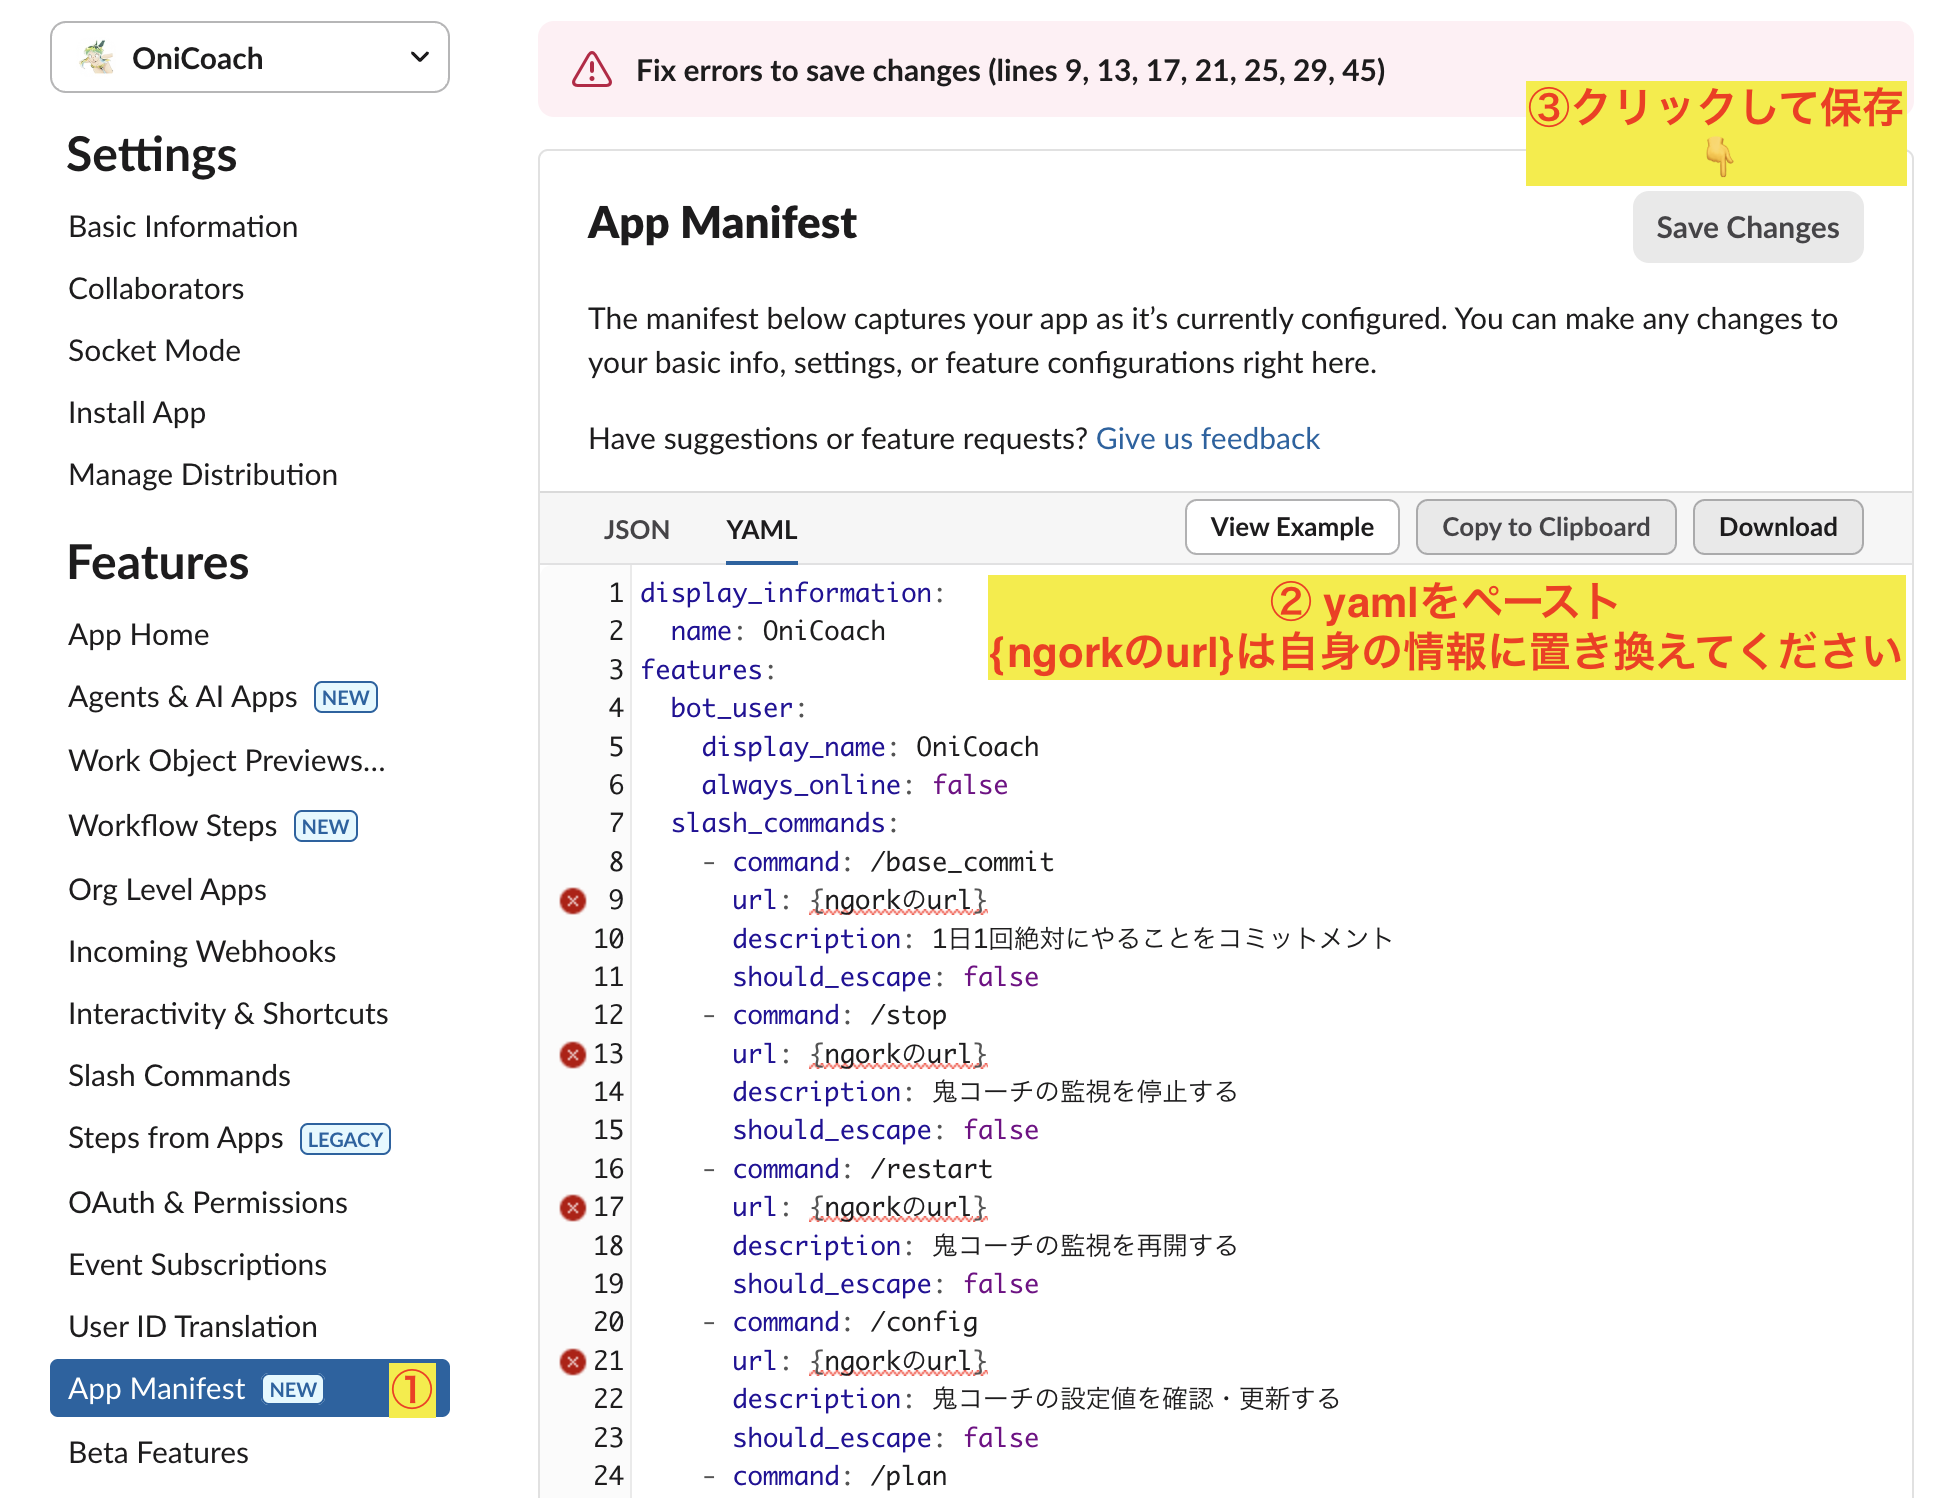
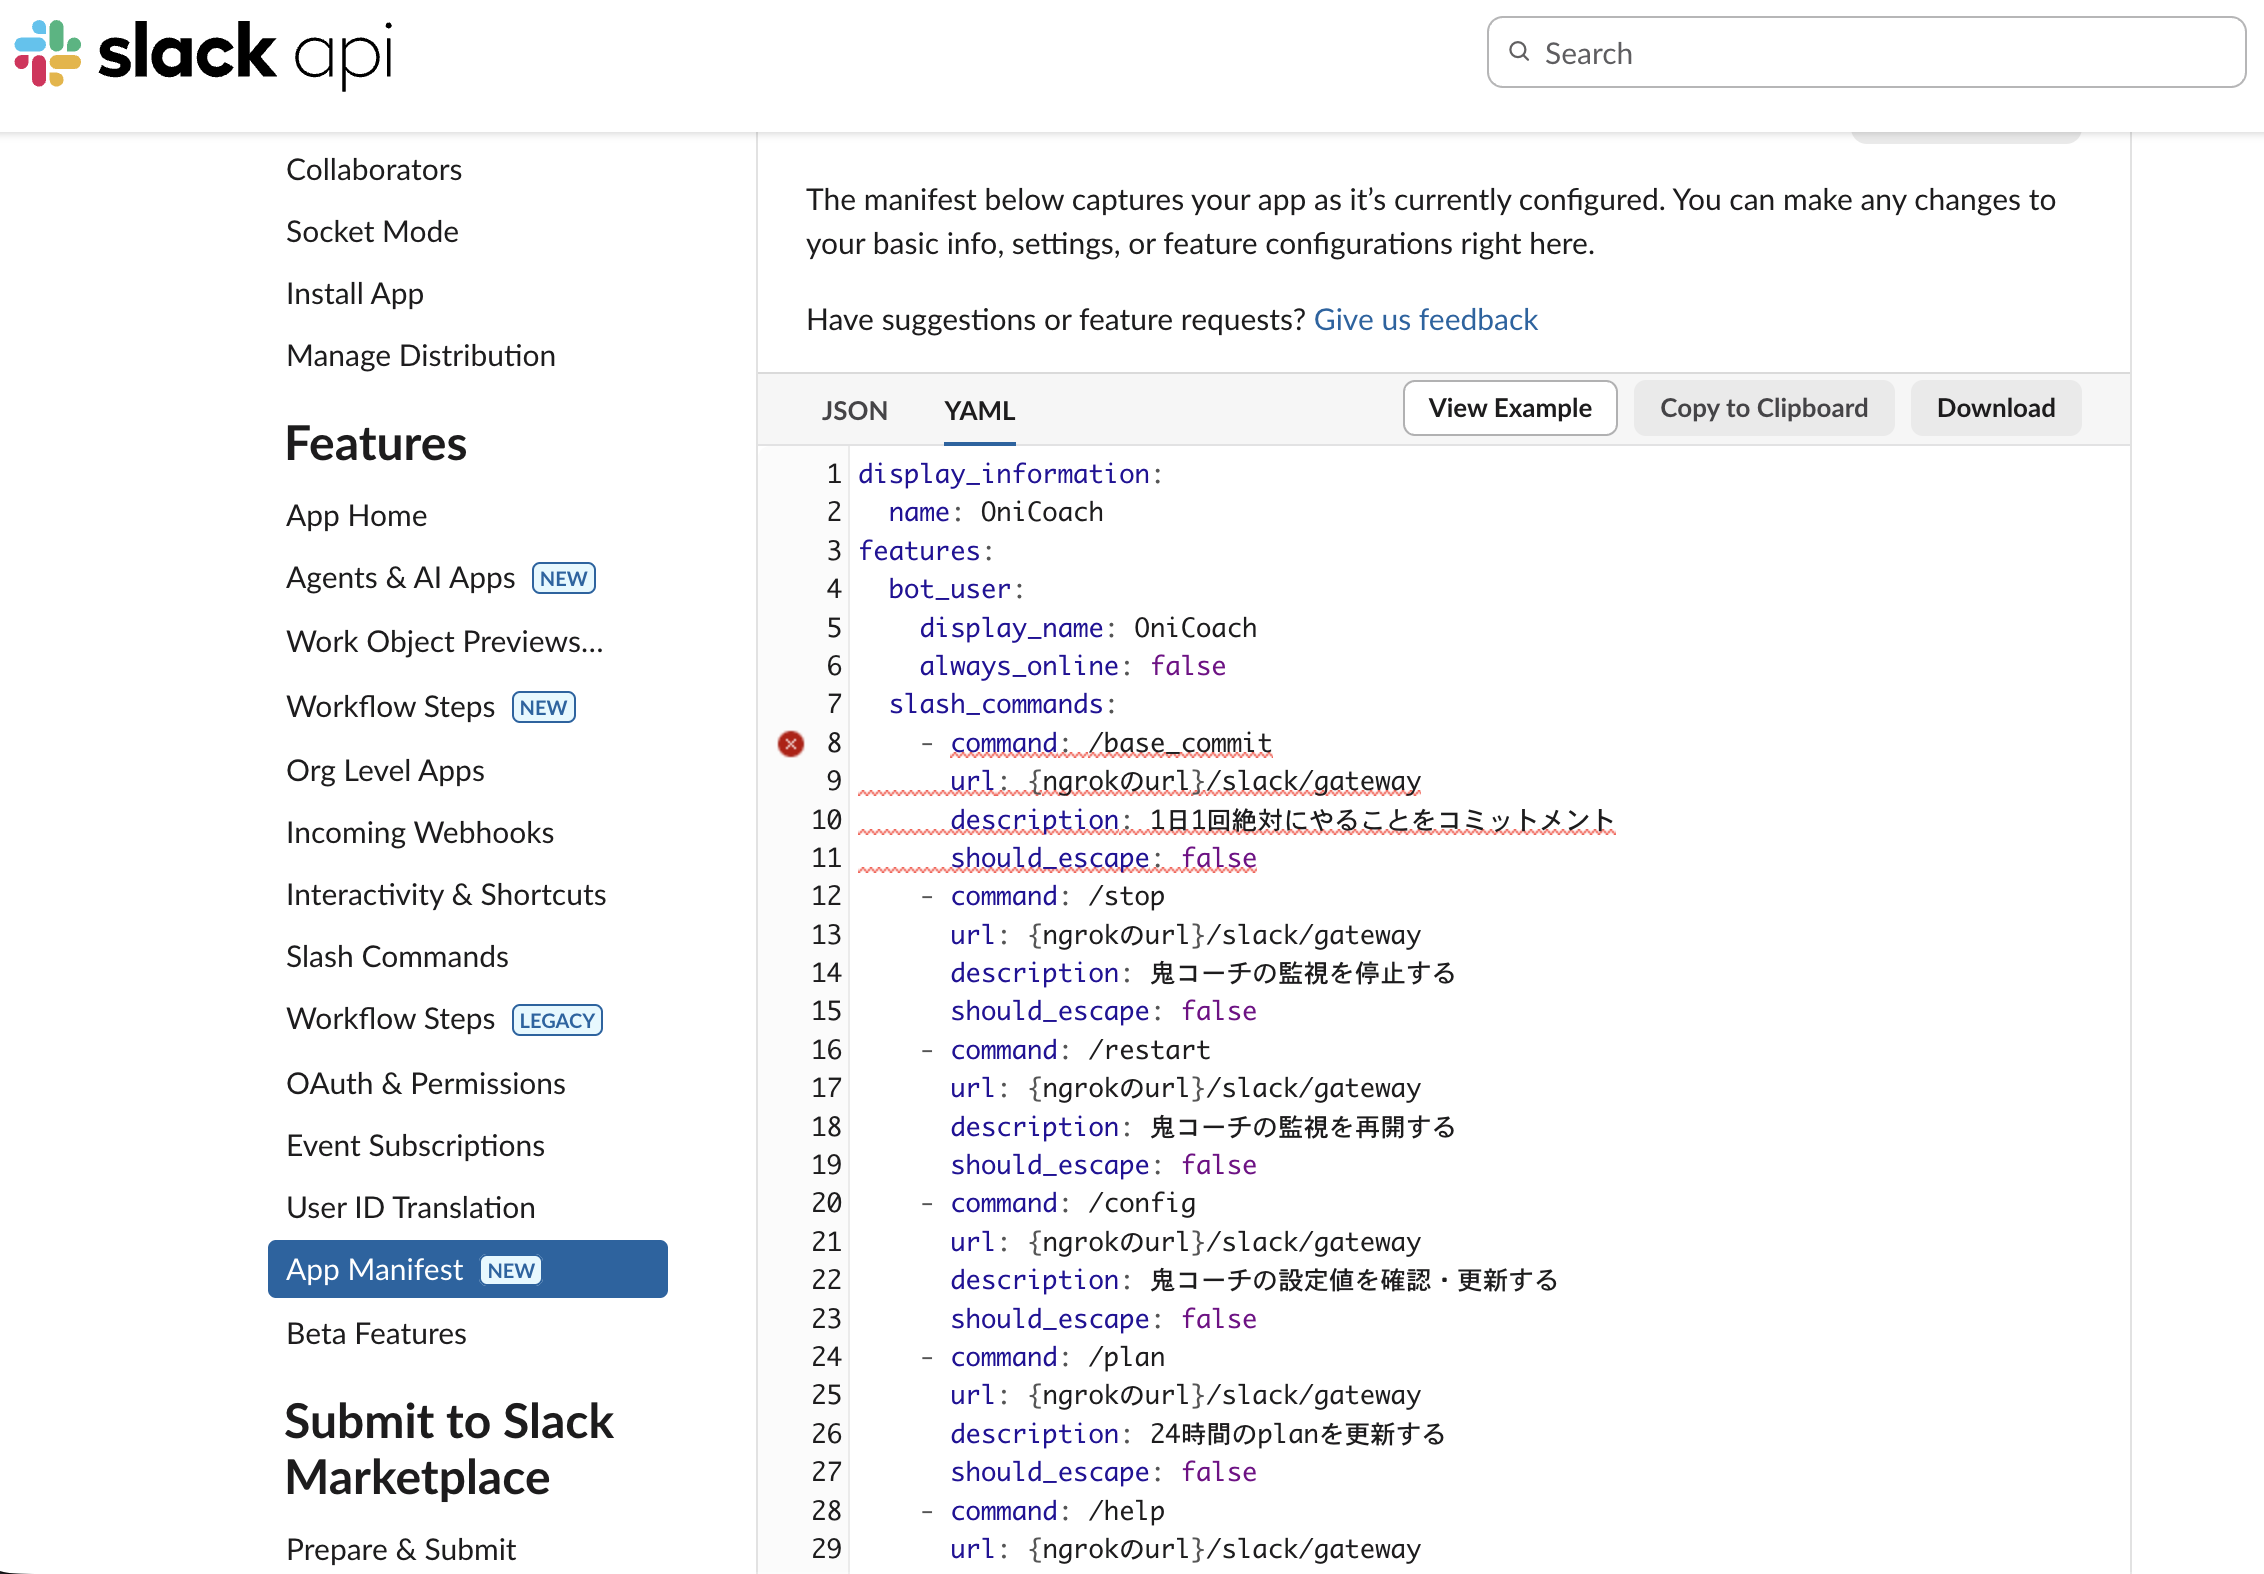
README修正。ngrokコマンドとngrok表記揺れの修正。image8の差し替え

diff --git a/README.md b/README.md
@@ -65,8 +65,8 @@ uv sync
    ![alt text](./documents/images/README/image4.png)
 6. .envの`PAVLOK_API_KEY`項に設定します
 
-### 3. ngorkの設定
-#### 3-1. ngorkのアカウントを作成する
+### 3. ngrokの設定
+#### 3-1. ngrokのアカウントを作成する
 [こちら](https://ngrok.com/?homepage-cta-docs=control)からアカウントを作成する
 
 #### 3-2. ngrokをインストールする
@@ -76,16 +76,16 @@ brew install ngrok/ngrok/ngrok
 
 #### 3-3. ngrokにauthトークンを設定する
 ```bash
-ngrok config {ngrokダッシュボードに書いてるauthトークン}
+ngrok config add-authtoken {ngrokダッシュボードに書いてるauthトークン}
 ```
 
-#### 3-4. 8000番ポートでngorkを起動する
+#### 3-4. 8000番ポートでngrokを起動する
 
 ```bash
 ngrok http 8000
 ```
 
-#### 3-5. ngorkから発行されたurlを確認する
+#### 3-5. ngrokから発行されたurlを確認する
 **※ 停止するとurlが変わるので試用中は停止しないように注意**
 ![alt text](./documents/images/README/image7.png)
 
@@ -111,31 +111,31 @@ features:
     always_online: false
   slash_commands:
     - command: /base_commit
-      url: {ngorkのurl}/slack/gateway
+      url: {ngrokのurl}/slack/gateway
       description: 1日1回絶対にやることをコミットメント
       should_escape: false
     - command: /stop
-      url: {ngorkのurl}/slack/gateway
+      url: {ngrokのurl}/slack/gateway
       description: 鬼コーチの監視を停止する
       should_escape: false
     - command: /restart
-      url: {ngorkのurl}/slack/gateway
+      url: {ngrokのurl}/slack/gateway
       description: 鬼コーチの監視を再開する
       should_escape: false
     - command: /config
-      url: {ngorkのurl}/slack/gateway
+      url: {ngrokのurl}/slack/gateway
       description: 鬼コーチの設定値を確認・更新する
       should_escape: false
     - command: /plan
-      url: {ngorkのurl}/slack/gateway
+      url: {ngrokのurl}/slack/gateway
       description: 24時間のplanを更新する
       should_escape: false
     - command: /help
-      url: {ngorkのurl}/slack/gateway
+      url: {ngrokのurl}/slack/gateway
       description: 鬼コーチの概要・コマンド説明・注意点
       should_escape: false
     - command: /cal
-      url: {ngorkのurl}/slack/gateway
+      url: {ngrokのurl}/slack/gateway
       description: 食事写真からカロリー計算
       should_escape: false
 oauth_config:
@@ -152,7 +152,7 @@ oauth_config:
 settings:
   interactivity:
     is_enabled: true
-    request_url: {ngorkのurl}/slack/gateway
+    request_url: {ngrokのurl}/slack/gateway
   org_deploy_enabled: false
   socket_mode_enabled: false
   token_rotation_enabled: false
